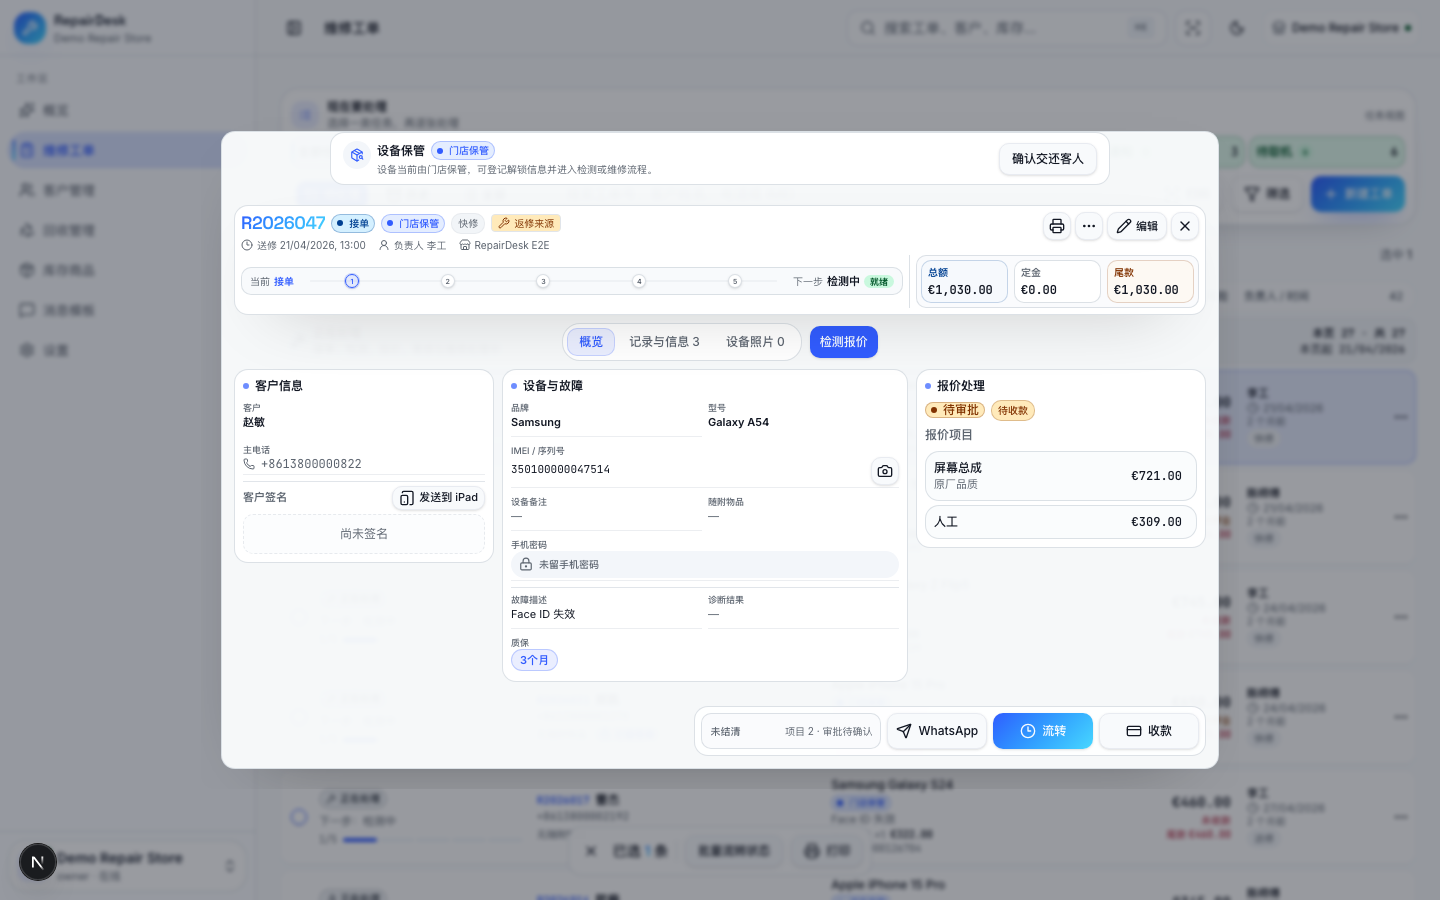
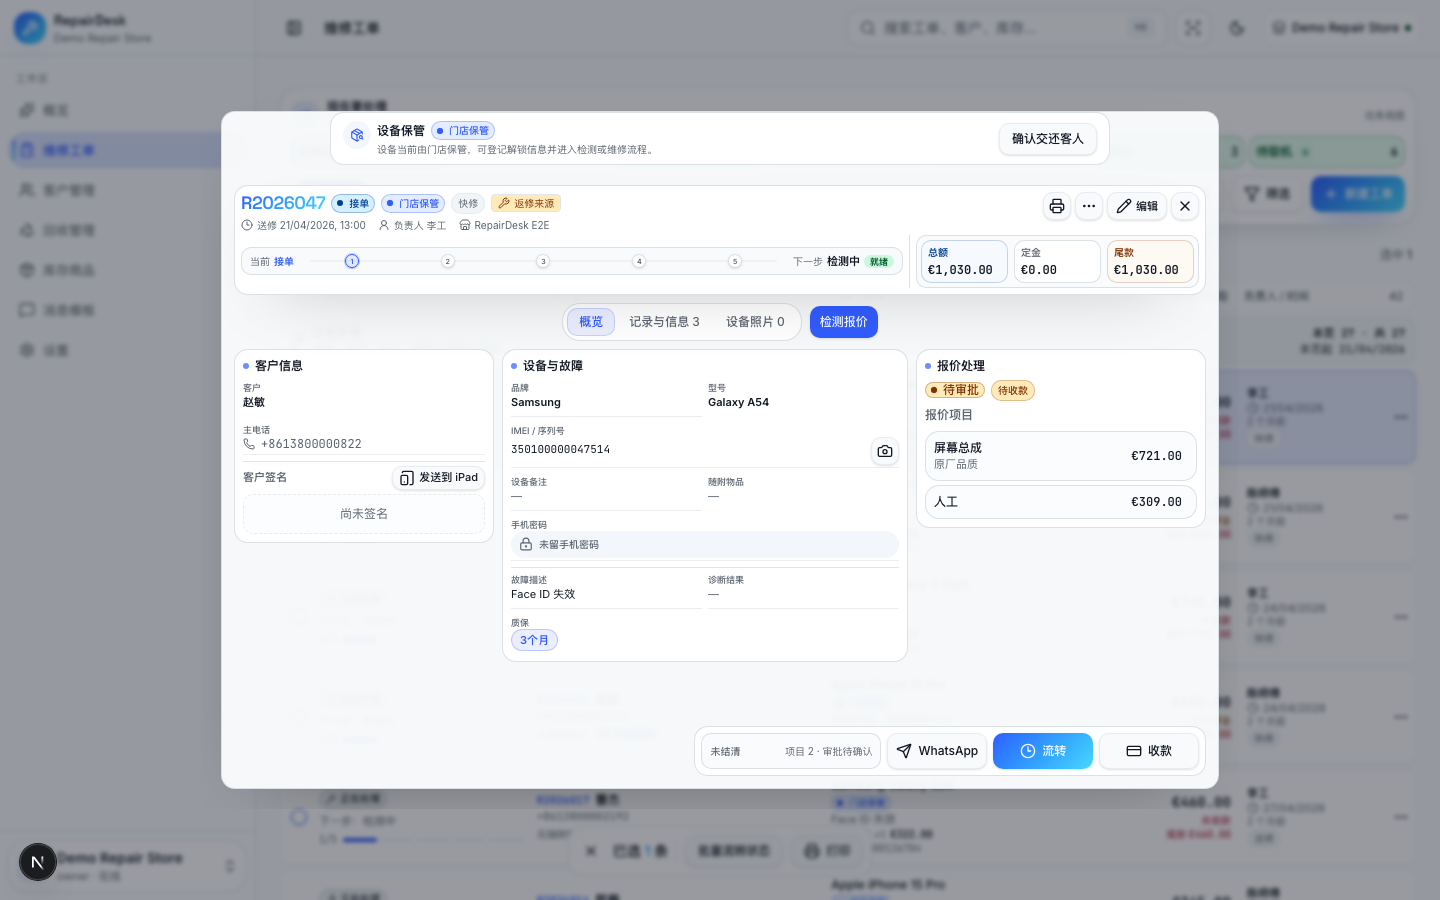
fix(orders): fit real detail content in one view

diff --git a/src/lib/component-patterns.ts b/src/lib/component-patterns.ts
@@ -115,7 +115,7 @@ export const componentOverlay = {
   detailWorkspace:
     "h-[calc(100svh-16px)] max-h-[calc(100svh-16px)] w-[calc(100vw-16px)] max-w-[calc(100vw-16px)] overflow-hidden border-transparent bg-transparent p-0 shadow-none sm:h-[calc(100svh-32px)] sm:max-h-[calc(100svh-32px)] sm:w-[min(1400px,calc(100vw-32px))] sm:max-w-[calc(100vw-32px)]",
   orderDetailWorkspace:
-    "h-[calc(100svh-16px)] max-h-[calc(100svh-16px)] w-[calc(100vw-16px)] max-w-[calc(100vw-16px)] overflow-hidden border-transparent bg-transparent p-0 shadow-none sm:h-[min(680px,calc(100svh-32px))] sm:max-h-[calc(100svh-32px)] sm:w-[min(1040px,calc(100vw-32px))] sm:max-w-[calc(100vw-32px)]",
+    "h-[calc(100svh-16px)] max-h-[calc(100svh-16px)] w-[calc(100vw-16px)] max-w-[calc(100vw-16px)] overflow-hidden border-transparent bg-transparent p-0 shadow-none sm:h-[min(720px,calc(100svh-32px))] sm:max-h-[calc(100svh-32px)] sm:w-[min(1040px,calc(100vw-32px))] sm:max-w-[calc(100vw-32px)]",
   formWorkspace:
     "max-h-[calc(100svh-16px)] w-[calc(100vw-16px)] max-w-[calc(100vw-16px)] overflow-hidden border-transparent bg-transparent p-0 shadow-none sm:max-h-[calc(100svh-32px)] sm:w-[min(1400px,calc(100vw-32px))] sm:max-w-[calc(100vw-32px)]",
   body: "min-w-0 overflow-y-auto px-3 pb-3 sm:px-4 sm:pb-4",

diff --git a/src/lib/ui-patterns.ts b/src/lib/ui-patterns.ts
@@ -61,7 +61,7 @@ export const overlayShell = {
   detailWorkspace:
     "h-[calc(100svh-16px)] max-h-[calc(100svh-16px)] w-[calc(100vw-16px)] max-w-[calc(100vw-16px)] overflow-hidden border-transparent bg-transparent p-0 shadow-none sm:h-[calc(100svh-32px)] sm:max-h-[calc(100svh-32px)] sm:w-[min(1400px,calc(100vw-32px))] sm:max-w-[calc(100vw-32px)]",
   orderDetailWorkspace:
-    "h-[calc(100svh-16px)] max-h-[calc(100svh-16px)] w-[calc(100vw-16px)] max-w-[calc(100vw-16px)] overflow-hidden border-transparent bg-transparent p-0 shadow-none sm:h-[min(680px,calc(100svh-32px))] sm:max-h-[calc(100svh-32px)] sm:w-[min(1040px,calc(100vw-32px))] sm:max-w-[calc(100vw-32px)]",
+    "h-[calc(100svh-16px)] max-h-[calc(100svh-16px)] w-[calc(100vw-16px)] max-w-[calc(100vw-16px)] overflow-hidden border-transparent bg-transparent p-0 shadow-none sm:h-[min(720px,calc(100svh-32px))] sm:max-h-[calc(100svh-32px)] sm:w-[min(1040px,calc(100vw-32px))] sm:max-w-[calc(100vw-32px)]",
   formWorkspace:
     "max-h-[calc(100svh-16px)] w-[calc(100vw-16px)] max-w-[calc(100vw-16px)] overflow-hidden border-transparent bg-transparent p-0 shadow-none sm:max-h-[calc(100svh-32px)] sm:w-[min(1400px,calc(100vw-32px))] sm:max-w-[calc(100vw-32px)]",
 } as const;

diff --git a/.ai-company/memory/tasks/TASK-20260720-002-order-detail-workbench-density/CHECKPOINTS.md b/.ai-company/memory/tasks/TASK-20260720-002-order-detail-workbench-density/CHECKPOINTS.md
@@ -19,3 +19,10 @@
 ## Active context exception
 
 项目根工作区存在另一项并行任务的未提交 `ACTIVE_CONTEXT.md`。为避免覆盖用户/其他任务状态，本检查点只写入任务本地目录；发布后继续以本任务 `TASK.md` 与本文件作为恢复入口。
+
+## 2026-07-19T23:35:00Z — 生产首轮烟测后调整工作台高度
+
+- **Phase:** production-correction
+- **Observed:** `main@5942a9de` 的 Vercel 部署 Ready；生产真实订单在 1437×771 视口下所有列宽约束正确，但较长的设备保管交接摘要让默认概览出现 25px 内部滚动。
+- **Decision:** 桌面工作台高度上限由 680px 调整为 720px；宽度、列布局和业务行为不变。
+- **Next:** 重新运行布局回归和构建，提交修正，等待新 exact-SHA Ready 后复测生产滚动差。

diff --git a/.ai-company/memory/tasks/TASK-20260720-002-order-detail-workbench-density/MEMORY_DELTA.md b/.ai-company/memory/tasks/TASK-20260720-002-order-detail-workbench-density/MEMORY_DELTA.md
@@ -2,7 +2,7 @@
 
 ## Candidate project memory
 
-- Desktop order detail should be treated as a bounded workbench rather than a viewport-width canvas: use a 1040px shell, 1000px primary content, and 920px low-frequency record/photo/cost content.
+- Desktop order detail should be treated as a bounded workbench rather than a viewport-width canvas: use a 1040px shell capped around 720px high, 1000px primary content, and 920px low-frequency record/photo/cost content.
 - Repeated financial summaries should have one primary location in the hero; the bottom dock should retain only settlement status and actions.
 - Role-specific columns should use bounded track widths and `items-start` so sparse cards do not visually stretch to match the tallest device card.
 

diff --git a/.ai-company/memory/tasks/TASK-20260720-002-order-detail-workbench-density/TASK.md b/.ai-company/memory/tasks/TASK-20260720-002-order-detail-workbench-density/TASK.md
@@ -39,7 +39,7 @@ updated_at: "2026-07-19T23:24:30Z"
 
 ## Acceptance criteria
 
-1. 桌面订单详情弹窗不超过 1040px 宽、约 680px 高，并保持视口内可用。
+1. 桌面订单详情弹窗不超过 1040px 宽、约 720px 高，并保持视口内可用。
 2. 进度区不超过 710px，金额摘要在同一行右侧独立分区。
 3. 客户、设备、报价三列不再等比例拉伸，卡片按各自内容高度显示。
 4. 设备保管不超过 780px，标签不整行铺满，底部工作区不超过 570px。
